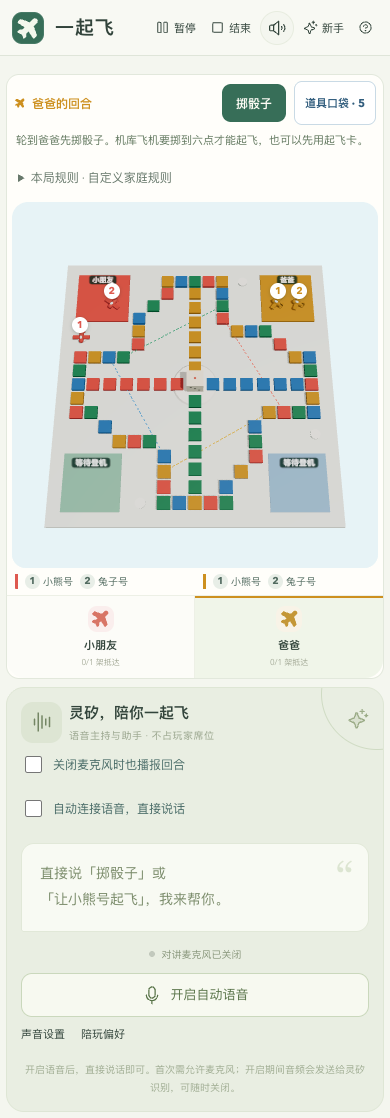
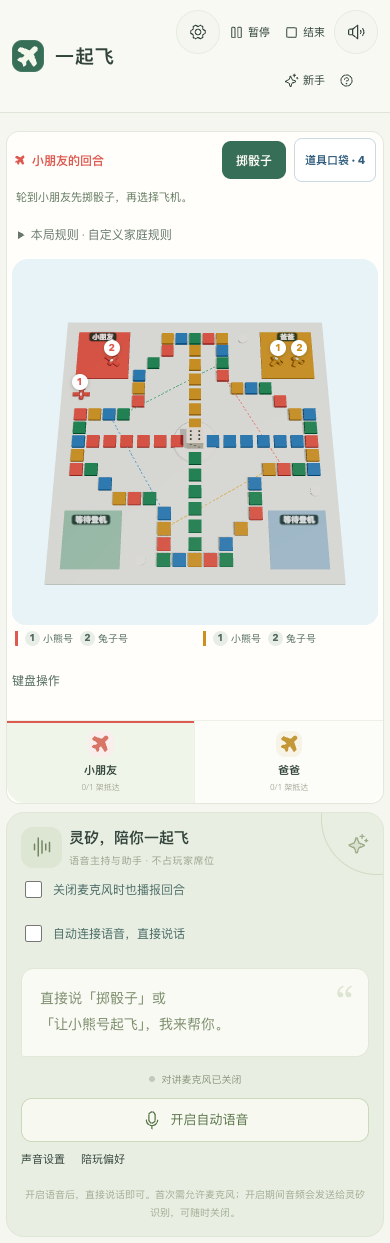
test: document deployed keyboard and light-board acceptance (#31)

diff --git a/docs/QA-ACCESSIBILITY.md b/docs/QA-ACCESSIBILITY.md
@@ -1,0 +1,70 @@
+# 轻量棋盘、减少动画与键盘验收（#31）
+
+日期：2026-10-24。应用 `b7dc761`，直接main分批交付，无其他分支或PR。关联 [#31](https://github.com/zkevindev/flytogether/issues/31)、[#17](https://github.com/zkevindev/flytogether/issues/17)。
+
+## 已交付
+
+首页与对局页右上角“显示与操作设置”：
+
+- 自动立体或轻量平面。轻量通过独立SVG模块加载，不创建WebGL画布，也不下载立体棋盘模块；立体模块加载失败时可直接转轻量。切换保留Go当前棋局、骰子、道具与版本。
+- 跟随系统或减少动画。默认跟随系统，系统偏好变化实时生效；显式减少动画关闭骰子旋转、飞行过渡、落点/合法棋子脉动、撒花粒子与装饰动画，仍保留真实点数、落点和抵达文字。静态骰子保留，点“继续飞行”或Enter确认后继续展示；声音偏好独立。
+- 偏好仅保存在当前浏览器localStorage，刷新保留，其他浏览器独立；损坏/未知值回退默认。设置面板也按需加载。
+
+键盘主流程：
+
+| 操作 | 行为 |
+| --- | --- |
+| Tab / Shift+Tab | 依次导航控件，弹窗内循环；关闭时返回入口或下一可用游戏控件 |
+| Enter / Space | 激活当前原生按钮，输入框仍可正常输入空格 |
+| 跳到主要内容 | 跳过头部导航，将焦点移到主区域 |
+| 主区域空格 | 在合法回合掷骰；重复按键不多掷 |
+| 主区域1～4 | 按飞机编号选择合法落点预览，不立即移动；焦点进入预览 |
+| 预览区域Enter | 确认当前飞机；仍经Go校验和去重 |
+| Esc | 取消预览/关闭弹窗，未确认不会移动或结束游戏 |
+| 主区域P | 打开道具口袋 |
+
+快捷键不抢占输入框、下拉框、按钮、链接、原生控件或已打开弹窗。修复骰子关闭后快速选子会被旧焦点恢复抢走的竞争情况；主页面跳转主动定位main。3D棋盘有可聚焦文字操作，2D有编号和标签；焦点轮廓可见。手机关键设置/回合/道具/预览/弹窗按钮至少44px，头部允许换行，避免裁切；不宣称全部SVG图元均有44px触控面积，飞机也可通过名字按钮选择。
+
+## 实际Chrome验收
+
+`test:accessibility:browser` 使用原生Chrome，macOS Metal，未设置绕过自动播放参数；关闭麦克风和主动播报。
+
+- 仅键盘完成设置、创建、带空格昵称、三步指南、打开/退出道具、起飞卡、实际随机投掷、预览/取消/确认起飞、暂停/继续/结束与取消结束。
+- 真实点数对应静态骰子，等待超过普通弹窗自动关闭时间后仍可确认。按住/重复空格只投一次，飞机只起飞一次，输入昵称和弹窗内操作不误触棋步。
+- 正式API和服务端随机骰子推进另一个自然完成的棋局，没有位置/点数注入；随后仅键盘查看结算、同配置再玩，统计清零、新游戏ID、轻量偏好保留。完整自然局的中间棋步通过正式命令推进，不声称每一步都用键盘。
+- 刷新偏好、独立浏览器、系统减少动画实时变更；自动/平面切换，权威State逐字段不变，旧画布移除并释放WebGL上下文。
+- 冷轻量无WebGL、无立体模块请求；有意中止立体模块下载后，直接切换轻量恢复原棋局，不重新加载页面。
+- 390×844与844×390无页面横向溢出，设置目标至少44px且不被头部裁切；弹窗可以滚动查看全部说明/完成按钮。
+- 页面错误0，麦克风请求0。截图为桌面Chrome视口，不等于新增实体低性能手机或读屏器验收。
+
+公网复跑同样通过，运行二进制与发布文件、6个静态资源一致，语音仍已配置，数据库与凭据权限600、schema3。公网冷轻量的ResourceTiming：入口encodedBodySize127467字节（解码398162），平面入口270，共享棋盘4498（解码11117）；立体Board模块未请求。这些是该构建的响应字节，不是帧率、续航或首屏耗时结论。
+
+另有3个组件/偏好测试：损坏设置默认、真实双骰静态点数、减少动画胜利提示无粒子；16语音生命周期、6展示、4播报/音效和构建通过。既有新手安静引导、跳过/重看、幸运骰、结束失败/成功、预览/切换/取消/确认及跳跃/飞行/撞机/终点/护盾/2D降级回归通过。
+
+3D资源专项：30次实际投掷与棋盘切换，正常过程中1个活动上下文，Buffer378、Texture17、Program5、Framebuffer4保持稳定；故意丢失/自动恢复/手动恢复、WebGL不可用仍可降级游玩。该脚本现也不依赖绕过自动播放参数，仅用于图形验证。
+
+## 边界与上线
+
+这轮不改变Go规则、语音协议、身份/存档格式；不把减少下载解释为真实低端机FPS或续航保证，也不是完整WCAG/VoiceOver认证。#3 的切网、后台挂起、长时间真实监听与比赛交付仍开放；此前用户确认的亲子与实体手机验收保持完成，不重复索要。
+
+上线前在线备份，运行二进制与发布文件、全部静态资源逐一核对；保留schema3数据库和语音配置。应用提交与截图来源分开记录，真实域名、SSH凭据、Cookie或API Key均不写入仓库。
+
+## 复跑
+
+```sh
+npm --prefix web ci
+npm --prefix web run build
+go build -o /tmp/flytogether-qa-server ./cmd/server
+LISTEN_ADDR=127.0.0.1:8080 SAVE_PATH=/tmp/flytogether-access.db /tmp/flytogether-qa-server
+```
+
+另一个终端：
+
+```sh
+npm --prefix web run test:experience
+QA_BASE_URL=http://127.0.0.1:8080 npm --prefix web run test:accessibility:browser
+QA_BASE_URL=http://127.0.0.1:8080 QA_EXPECT_LAZY=1 npm --prefix web run test:loading:browser
+QA_BASE_URL=http://127.0.0.1:8080 npm --prefix web run test:scene:browser
+```
+
+浏览器脚本为独立Cookie创建示例棋局，使用正式命令与真实随机骰子，不申请麦克风；受控模块失败仅拦截测试页面。结果JSON与截图位于Git忽略的`web/test-results/`或`QA_OUTPUT_DIR`。当前10张界面与本轮设置/轻量/静态骰子/结算图的版本、Chrome和哈希见 [截图说明](SCREENSHOTS.md)。

diff --git a/README.md b/README.md
@@ -32,6 +32,12 @@
 
 自然获胜后由 Go 同时保存棋局和真实战绩，可查看最近50局、档案在这50局中的参与/获胜数及每局五项操作。演示和手动结束不计入。支持删除档案或单独清空记录；删除存档不会删除历史，清空只影响当前浏览器。档案按浏览器 Cookie 找回，访问时续期一年，清理 Cookie 或换设备无法找回；房间闲置7天保留期不变。
 
+### 按设备调整显示与操作
+
+右上角 **显示与操作设置** 可以切换自动立体/轻量平面、跟随系统/减少动画，当前浏览器保存，切换保留对局。轻量棋盘跳过立体模块；减少动画时直接显示骰子结果，按“继续飞行”或 Enter 继续。
+
+可用 Tab 导航、Enter/空格激活控件。焦点在棋盘主区域时：空格掷骰，1～4 按编号看落点，Enter确认、Esc取消，P打开道具；输入昵称和打开弹窗时不会触发棋盘快捷键。头部的“跳到主要内容”可跳过导航。
+
 ## 当前界面
 
 | 首页 | 创建游戏 |
@@ -64,6 +70,10 @@
 | --- | --- |
 | ![昵称与六种内置头像](docs/images/family/family-profiles.png) | ![自然结算的真实历史](docs/images/family/family-history.png) |
 
+| 显示与操作设置 | 轻量棋盘 |
+| --- | --- |
+| ![当前浏览器的显示与操作设置](docs/images/accessibility/experience-settings.png) | ![键盘操作后的轻量棋盘](docs/images/accessibility/light-keyboard-board.png) |
+
 [查看手机对局页](docs/images/current/play-mobile.png) · [终点撒花](docs/images/finish-confetti.png) · [截图版本与复跑方式](docs/SCREENSHOTS.md)
 
 主图及上表为 2026-10-24 从运行中的应用重新截取，非设计稿。常规界面截图关闭语音采集与自动播报；声音设置图来自受控 PCM 与 Chrome 合成麦克风回归，未使用实体录音。语音实测单独记录在 [QA-VOICE](docs/QA-VOICE.md)。
@@ -79,7 +89,8 @@
 | 结算再玩 | 动作级累计五项真实统计、刷新不重复、同配置再玩；联网保留席位 |
 | 玩法预设 | 亲子轻松、经典飞行、原自定义规则；本局固定，点击/AI/语音一致 |
 | 陪玩偏好 | 三种风格、三档主动频率，刷新保留；可跳过解说 |
-| 首次加载 | 进入对局才下载3D棋盘；实测冷首页JS减少约60%，加载失败可重试 |
+| 显示与键盘 | 自动立体/轻量平面、系统/减少动画；焦点恢复、键盘主流程和关键44px触控入口 |
+| 首次加载 | 进入对局才下载棋盘，轻量跳过立体模块；设置按需加载，模块失败可转轻量 |
 | 机器人陪玩 | 同屏或联网添加一位机器人，占最后一席；Go 规则策略自动行动，轻松/普通/挑战三档 |
 | 三种棋盘 | 经典十字 52 格、长航线 84 格、环形航线 52 格；Three.js 棋盘、飞机编号、2D 降级 |
 | 新手与预览 | 首次三步指南、跳过/重看、回合提示；预览服务端合法落点与特殊效果，确认后移动 |
@@ -172,7 +183,7 @@ LINGXI_REALTIME_API_KEY=你的服务端API密钥
 
 音效、回合播报、对讲麦克风可独立设置，顶部总静音立即停止全部音频和录音，刷新保留偏好。语音时长、并发与 UTC 日额度可通过环境变量配置，详见[存档与声音验收](docs/QA-RELIABILITY.md)。
 
-[1.0 路线与逐项验收标准](docs/ROADMAP.md)保留规则平衡、更多玩法和更广的可访问性交互等未完成项。
+[1.0 路线与逐项验收标准](docs/ROADMAP.md)保留规则平衡、更多玩法和专项稳定性等未完成项；显示/键盘首版见[验收记录](docs/QA-ACCESSIBILITY.md)。
 
 ## 验证与演示
 
@@ -182,12 +193,14 @@ npm --prefix web run test:board
 npm --prefix web run test:presentation
 npm --prefix web run test:voice
 npm --prefix web run test:narration
+npm --prefix web run test:experience
 npm --prefix web run build
 ```
 
 服务启动后可运行浏览器流程：
 
 ```sh
+QA_BASE_URL=http://127.0.0.1:8080 npm --prefix web run test:accessibility:browser
 QA_BASE_URL=http://127.0.0.1:8080 npm --prefix web run test:network:browser
 QA_BASE_URL=http://127.0.0.1:8080 npm --prefix web run test:network:bot
 QA_BASE_URL=http://127.0.0.1:8080 npm --prefix web run test:coach:browser

diff --git a/docs/ROADMAP.md b/docs/ROADMAP.md
@@ -87,7 +87,7 @@
 | 规则与节奏 | #27 亲子轻松/经典/自定义已部署，明确起飞、胜利与道具；配比继续收集反馈 | 点击、AI、语音共用 Go 规则；规则在一局内固定 |
 | 可选特殊玩法 | 再根据试玩选择天气、补给或合作目标等机制 | 清楚显示规则变化，有实际选择，不只是随机惩罚与动画 |
 | 家庭档案 | #29 已交付：本浏览器12份昵称/内置头像，自然胜负事务保存，最近50局与独立清空 | 真实操作统计、权限隔离、重启/重复/清空不复活，不保存原始语音 |
-| 手机与可访问性 | 大触控区域、编号与颜色并用、键盘与减少动画 | 平板横竖屏可用，低性能设备可走 2D 降级 |
+| 手机与可访问性 | #31 已交付：轻量/自动立体、系统/减少动画、键盘主流程、焦点与关键44px触控 | 实际Chrome键盘/横竖屏验证；更广读屏/实体低端机评测按需继续 |
 | 首次加载 | #28 已交付：首页不下载棋盘，进入对局才加载，失败可重试 | 对比真实首屏时间与下载大小，不只报构建文件大小 |
 
 ### 已选择的陪玩切片 #20
@@ -100,7 +100,7 @@
 
 ## 实施顺序与发布门槛
 
-当前优先顺序：**新手引导＋落点预览 → 结算再玩 → 亲子规则与灵矽陪玩 → 存档续玩与异常恢复 → 家庭验收**。玩法切片与可靠性任务都属于 1.0 门槛；完成引导不表示已交付结算、存档或其他计划。每次选择一个可验收切片，直接提交 main，Issue 回链代码和证据；联网扩展以独立 Issue #22 跟踪，不替代存档和家庭验收。
+早期实施顺序已完成：新手引导/预览、结算、规则与陪玩、存档及用户确认的家庭验收。#29补齐家庭档案与历史，#31补齐轻量/动画/键盘首版。当前继续收集玩法平衡反馈，按需选择新玩法，并由#3跟踪专项稳定性与比赛交付。每次选择一个可验收切片，直接提交 main，Issue 回链代码和证据；联网扩展以独立 Issue #22 跟踪，不替代存档和家庭验收。
 
 同屏 1.0 发布前，P0 都应有实际验证记录；存在未覆盖设备时明确说明范围，不能只把已有功能列表改名为“完整产品”。存档与声音的范围、费用边界及复跑方式见 [QA-RELIABILITY](QA-RELIABILITY.md)，备份见 [SAVES](SAVES.md)。每个可见界面变更同步更新 [截图说明](SCREENSHOTS.md)；README 只写已经可用的能力，计划保留在本文。
 
@@ -110,8 +110,12 @@
 - [x] #27 亲子轻松、经典与原自定义规则，Go/AI/点击/语音/引导一致，开局固定、重启与再玩保留。
 - [x] #28 棋盘按需下载与加载失败恢复；实际冷首页JS 944401→373826字节，减少60.4%，不是首屏耗时结论。
 
-详细代码、真实平台/受控测试和限制见 [QA-P1](QA-P1.md)。下一步仍是家庭昵称/头像档案、跨局历史战绩、更多键盘/减少动画交互及玩法；道具平衡持续按反馈调整。#17保持开放。
+详细代码、真实平台/受控测试和限制见 [QA-P1](QA-P1.md)。#29随后完成家庭昵称/头像与跨局历史，#31完成轻量/减少动画/键盘首版；后续玩法和道具平衡持续按反馈调整。#17保持开放。
 
 ## 家庭档案交付（#29）
 
 昵称/头像复用与跨局记录已完成。档案统计以当前浏览器最近50个自然结束的对局为范围，不比较不同玩法的排名；演示、手动结束不计入。改名、删档案不改旧快照，清空不影响其他浏览器。仍无账号同步、跨浏览器找回、导出或终身排行榜，后续可按反馈选择。
+
+## 显示与键盘首版交付（#31）
+
+轻量模式不创建WebGL或下载立体模块，切换不改棋局；系统/减少动画、静态骰子确认、焦点循环与恢复、键盘创建到结束/结算再玩、关键44px触控入口已完成。详细实际范围与设备限制见 [QA-ACCESSIBILITY](QA-ACCESSIBILITY.md)。本项不替代#3长时间语音/切网/后台专项，也不把Chrome手机视口说成新增实体低性能机验收。

diff --git a/docs/ARCHITECTURE.md b/docs/ARCHITECTURE.md
@@ -604,3 +604,11 @@ GET `/api/family` 返回本人档案、总记录数与最近50局；POST `/api/f
 明确指令在请求播报前执行Go规则并提交。含糊骰子话语、否定和掷骰问句只读；每条新转写清理上一段朗读上下文。对于本地已处理的回合，除发送tool_choice=none，还在网关拒绝后续模型工具，防止朗读阶段意外多操作。
 
 语音WS的game_action含当前授权浏览器的权威Room快照和Go事实文案。前端VoiceClient把它交给App.accept，与/ws/game共用序号/实例去重及presentation事件队列；双通道不会重复掷骰或播放动画，棋局通道延迟时语音确认仍可展示实际投掷。它不创建浏览器端随机点数或补写动作；模型的自然语言不能替代确认，停止播放不回滚已提交棋步。
+
+## 显示偏好与键盘（#31）
+
+`fly-experience`仅存本浏览器，合法值为board:auto/flat、motion:system/reduced；未知值回默认，系统偏好change事件与同浏览器storage变更实时同步。设置面板和两种棋盘分别lazy加载；共用BoardFrame/SVG布局，轻量入口不引入Three。立体切换为轻量时卸载FlightScene，执行原有几何/纹理/材质、RAF、observer与context清理，不重启Go棋局。
+
+有效减少动画取显式设置或系统偏好。CSS通过html[data-motion]禁用过渡/装饰，Three逐帧读取当前标志，骰子停止旋转、飞机直接到目标、合法/落点高亮不脉动，庆祝保留文字并不创建粒子。presentation仍按服务端真实事件先骰子后飞机，只缩短过渡，静态骰子等待确认。
+
+所有入口保留原生按钮。useDialog统一showModal、Tab边界与异步焦点恢复；新焦点已经进入预览/控件时，旧cleanup不抢回。快捷键只在对局主区域且无弹窗/输入/按钮焦点及合法canAct状态下执行，数字先只读预览，Enter仍提交Go命令，不改变授权、版本或去重。页面跳转定位main，SVG与文字操作保留编号/状态辅助。

diff --git a/docs/SCREENSHOTS.md b/docs/SCREENSHOTS.md
@@ -70,3 +70,9 @@ npm --prefix web run capture:docs
 ## 语音掷骰动作确认（#30）
 
 [voice-roll/manifest.json](images/voice-roll/manifest.json) 记录 `5683f8e` 的落定骰子弹窗：合成说“好，掷骰子”经真实灵矽转写，Go实际随机3点、版本3、投掷与弹窗均1次。截图等待骰子停止转动，文字和正面点数一致。测试页面刻意延迟棋局WS消息，实际语音动作确认仍驱动弹窗；没有注入转写/点数/棋盘，也不是实体麦克风验收。公网对应五句样本实际1点，完整转写/确认/回复见 [QA-VOICE](QA-VOICE.md)。
+
+## 轻量、减少动画和键盘（#31）
+
+当前10张图已从 `b7dc761` 重拍，新增头部设置与棋盘键盘入口。新增 [accessibility/manifest.json](images/accessibility/manifest.json) 记录6张公网真实Chrome截图：显示设置、键盘操作后的平面棋盘、手机平面与设置、等待确认的静态真实骰子、自然结束后的结算。
+
+创建/设置/道具/骰子/预览/确认/暂停/结束通过Tab与原生按键完成；自然局的中间步通过正式命令和服务端随机数推进后打开真实结算，未注入位置或点数。截图保留可见焦点，手机头部按钮换行完整、未横向溢出；设置弹窗可向下滚动。麦克风请求0，手机是桌面Chrome视口，不冒充实体低端设备评测。
